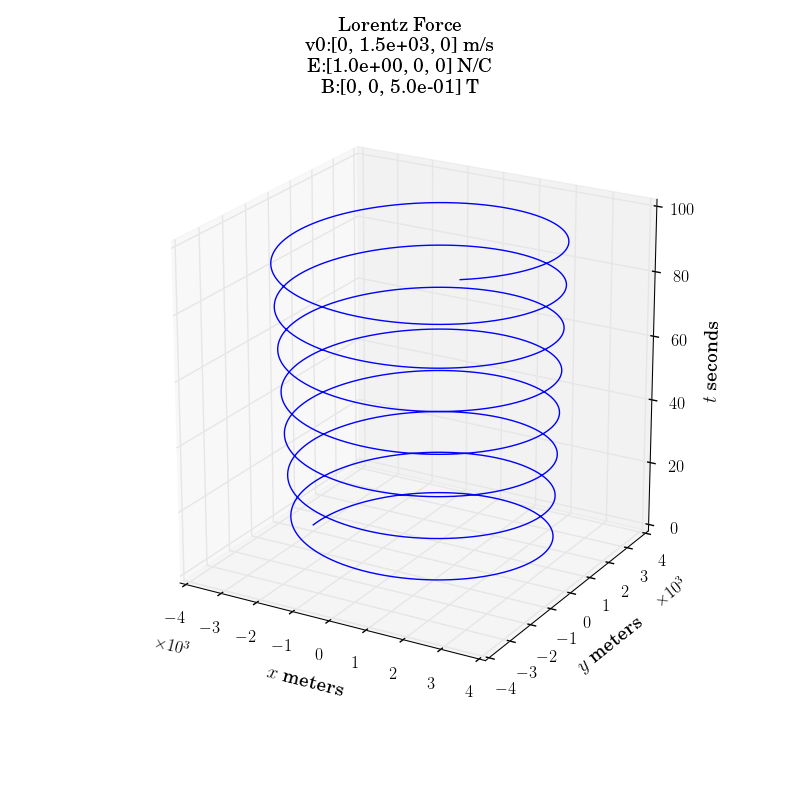
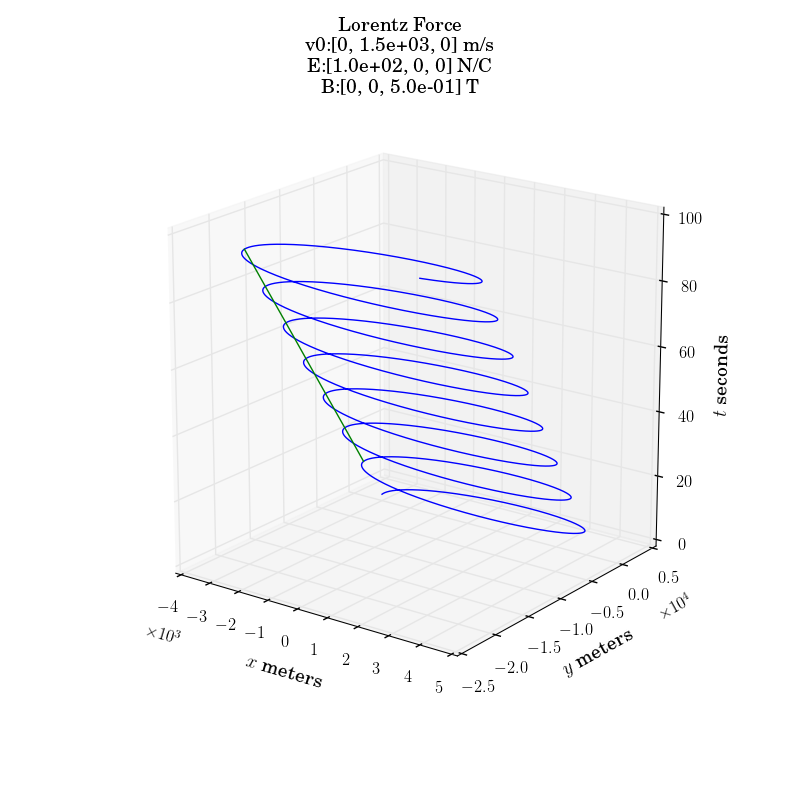
drift velocity now computed properly.

diff --git a/HW6_charged_particle/HW6_charged_particle.py b/HW6_charged_particle/HW6_charged_particle.py
@@ -53,20 +53,56 @@ def produce_plot_title(v0_vec, E_vec, B_vec):
 	return 'Lorentz Force\nv0:{} m/s\nE:{} N/C\nB:{} T'.format(v0_str, E_str, B_str)
 
 
-def measure_drift_velocity(position_array, time_array):
-	pass
+def measure_drift_velocity(trajectory_dict):
+	position = trajectory_dict['position']
+	t_array = trajectory_dict['t_array']
+
+
+	# first, record where the maxima occur in X and in t (assumes helix is in x-y plane).
+	maxima_locations = []
+	maxima_times = []
+	for i in range(1, len(position)-1):
+		# if we've just passed X=0 in either direction.
+		if (position[i][0] - position[i-1][0] < 0) and (position[i+1][0] - position[i][0] > 0):
+			maxima_locations.append(position[i])
+			maxima_times.append(t_array[i])
+	maxima_locations = np.array(maxima_locations)
+	maxima_times = np.array(maxima_times)
+
+	# second, create a list of velocities between all maxima.
+	drift_velocities = np.empty([len(maxima_locations)-1, 3])
+	for i in range(0, len(drift_velocities)):
+		dt = maxima_times[i+1] - maxima_times[i]
+		drift_velocities[i] = (maxima_locations[i+1] - maxima_locations[i]) / dt
+
+	# third, find the average and standard deviation of these velocities.
+	average_v = np.mean(drift_velocities, axis=0)
+	speeds = np.array([np.linalg.norm(v) for v in drift_velocities])
+	std_speeds = np.std(speeds)
+	mean_speeds = np.mean(speeds)
+
+
+	return {'n_maxima': len(maxima_locations), 'average_v_vec': average_v,
+		 'std_speeds': std_speeds, 'mean_speed': mean_speeds, 
+			'list_of_v': drift_velocities, 'maxima': maxima_locations,
+			'maxima_times': maxima_times}
 
 # Run trajectory function and make 3D plot (x, y, z).
 def make_3d_plot(dt, final_t, q, mass, v0_vec, x0_vec, E_vec, B_vec):
 	trajectory_dict = calc_particle_traj(dt, final_t, q, mass, x0_vec, v0_vec, E_vec, B_vec)
 	t_array = trajectory_dict['t_array']; position_array = trajectory_dict['position']
 	
+	drift_dict = measure_drift_velocity(trajectory_dict)
+	drift_loc = drift_dict['maxima']
+	drift_times = drift_dict['maxima_times']
+
 	plt.rc('text', usetex=True)
 	plt.rc('font', family='serif')
 
 	fig = plt.figure(figsize=(8,8), dpi=100, facecolor='w')
 	ax = fig.gca(projection='3d')
 	ax.plot(position_array.T[0], position_array.T[1], t_array)
+	ax.plot(drift_loc.T[0], drift_loc.T[1], drift_times)
 	ax.view_init(21,-60)
 	plt.xlabel('$x$ meters', size=14);	plt.ylabel('$y$ meters', size=14);
 	ax.set_zlabel('$t$ seconds', size=14)
@@ -93,11 +129,22 @@ pc = {'mass_proton': 1.67e-19, # kg
 	'q_proton': 1.60e-19, # C
 	'x0': np.array([-3e3, 0, 0]), # m
 	'v0': np.array([0, 1.5e3, 0]), # m/s
-	'E_vec': np.array([1e0, 0, 0]), # ?
+	'E_vec': np.array([1e2, 0, 0]), # ?
 	'B_vec': np.array([0, 0, 0.5]) # T
 	}
 
 def main():
-#	make_3d_plot(dt=0.01, final_t=100., 
-#		q=pc['q_proton'], mass=pc['mass_proton'], v0_vec=pc['v0'], 
-#		x0_vec=pc['x0'], E_vec=pc['E_vec'], B_vec=pc['B_vec'])
+
+	trajectory_dict = calc_particle_traj(dt=0.01, final_t=100., 
+		q=pc['q_proton'], mass=pc['mass_proton'], v0_vec=pc['v0'], 
+		x0_vec=pc['x0'], E_vec=pc['E_vec'], B_vec=pc['B_vec'])
+	print measure_drift_velocity(trajectory_dict) 
+
+	make_3d_plot(dt=0.01, final_t=100., 
+		q=pc['q_proton'], mass=pc['mass_proton'], v0_vec=pc['v0'], 
+		x0_vec=pc['x0'], E_vec=pc['E_vec'], B_vec=pc['B_vec'])
+
+
+
+
+main()
